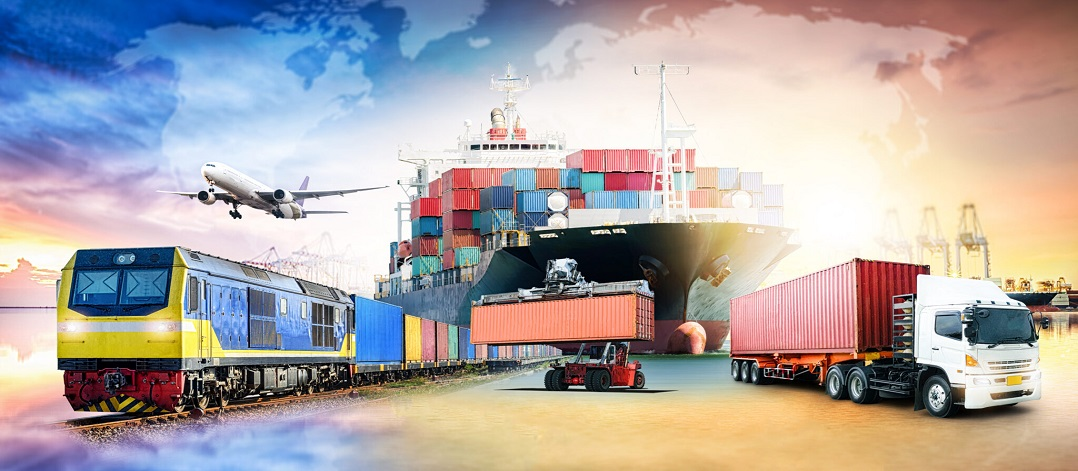
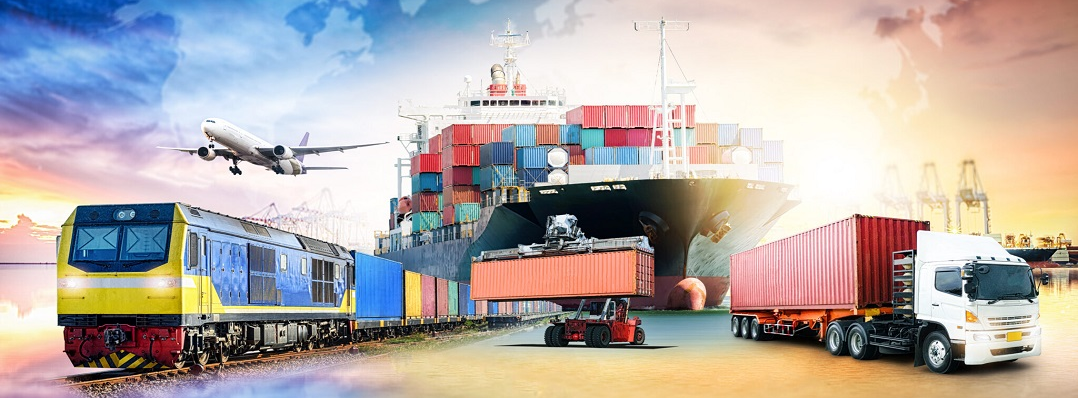
added more backend features

diff --git a/src/components/homePageComponents/InputCard.js b/src/components/homePageComponents/InputCard.js
@@ -1,23 +1,33 @@
-import React from "react";
-import Form from "react-bootstrap/Form";
-import InputGroup from "react-bootstrap/InputGroup";
+import React, { useState } from "react";
 import Card from "react-bootstrap/Card";
-import ListGroup from "react-bootstrap/ListGroup";
-import Calculator from "./Calculator";
-import { useState } from "react";
+import InputComponent from "./InputComponent";
 
 function InputCard(props) {
-  const [value, setValue] = useState(0);
-
   const icon = props.icon;
   const title = props.title;
-  const units = props.units;
 
-  const [unit, setUnit] = useState(units[0]);
+  
+  let [inputList, setInputList] = useState([1])
 
-  const getData = (ele) => {
-    setValue(ele.target.value);
-  };
+  const addInputComponent = () => {
+    let newInputList = [...inputList];
+    let count = newInputList.length
+    newInputList.push(count + 1);
+    setInputList(newInputList);
+  }
+
+  const removeInputComponent = () => {
+    let newInputList = [...inputList];
+    newInputList.pop()
+    setInputList(newInputList);
+  }
+
+  let addBtn 
+  let removeBtn
+  if(title  === "Private Vehicle") {
+    addBtn = <button className="btn btn-primary" onClick={(e) => {addInputComponent()}}><p>+ Add</p></button>
+    removeBtn = <button className="btn btn-danger" onClick={(e) => {removeInputComponent()}}><p>X</p></button>
+  }
 
   return (
     <div className="my-4 mx-4 justify-content-center">
@@ -26,27 +36,11 @@ function InputCard(props) {
           <h4>
             {icon} {title}
           </h4>
+         <p>{addBtn} {removeBtn}</p>
         </Card.Header>
-        <ListGroup variant="flush">
-          <ListGroup.Item>
-            <InputGroup className="mb-3 my-3">
-              <Form.Control
-                aria-label="Text input with dropdown button"
-                type="number"
-                onChange={getData}
-              />
-              <select
-                className="dropdown"
-                onChange={(e) => setUnit(e.target.value)}
-              >
-                {units.map((currElement) => {
-                  return <option key={currElement}>{currElement}</option>;
-                })}
-              </select>
-            </InputGroup>
-            <Calculator title={title} unit={unit} value={value} />
-          </ListGroup.Item>
-        </ListGroup>
+        {inputList.map((curr) => {
+          return <>{<InputComponent title = {title} units = {props.units}/>}</>
+        })}
       </Card>
     </div>
   );

diff --git a/src/components/homePageComponents/InputComponent.js b/src/components/homePageComponents/InputComponent.js
@@ -1,0 +1,76 @@
+import React, { useState } from "react";
+import Form from "react-bootstrap/Form";
+import InputGroup from "react-bootstrap/InputGroup";
+import ListGroup from "react-bootstrap/ListGroup";
+import Calculator from "./Calculator";
+
+function InputComponent(props) {
+    const [value, setValue] = useState(0);
+    const [milageValue, setMilageValue] = useState(0);
+
+  const title = props.title;
+  const units = props.units;
+  const fuels = ["Petrol","Diesel","CNG"]
+
+  const [unit, setUnit] = useState(units[0]);
+  const [fuel, setFuel] = useState(fuels[0])
+
+  const getData = (ele) => {
+    setValue(ele.target.value);
+  };
+  const getMilageData = (ele) => {
+    setMilageValue(ele.target.value);
+  };
+
+  let fuelDrop
+  let milage
+  if(title === "Private Vehicle") {
+    if(unit === "km/month")
+    milage = <Form.Control
+    aria-label="Text input with dropdown button"
+    type="number"
+    onChange={getMilageData}
+    placeholder="Enter Milage"
+  />
+    fuelDrop = <select
+    className="dropdown"
+    onChange={(e) => setFuel(e.target.value)}
+  >
+    {fuels.map((currElement) => {
+      return <option key={currElement}>{currElement}</option>;
+    })}
+  </select>
+  }
+
+  let plHolder = `Enter ${title} usage in ${unit}`
+
+  return (
+    <div>
+        <ListGroup variant="flush">
+          <ListGroup.Item>
+            <InputGroup className="mb-3 my-3">
+              {fuelDrop}
+              {milage}
+              <Form.Control
+                aria-label="Text input with dropdown button"
+                type="number"
+                placeholder={plHolder}
+                onChange={getData}
+              />
+              <select
+                className="dropdown"
+                onChange={(e) => setUnit(e.target.value)}
+              >
+                {units.map((currElement) => {
+                  return <option key={currElement}>{currElement}</option>;
+                })}
+              </select>
+            </InputGroup>
+            <Calculator title={title} unit={unit} value={value} fuel={fuel} milageValue={milageValue}/>
+          </ListGroup.Item>
+        </ListGroup>
+    </div>
+  )
+}
+
+export default InputComponent

diff --git a/src/components/homePageComponents/Carousels.js b/src/components/homePageComponents/Carousels.js
@@ -1,6 +1,6 @@
 import { Container } from 'react-bootstrap';
 import Carousel from 'react-bootstrap/Carousel'
-import Food from './images/Food.jpg'
+import Food1 from './images/Food1.jpeg'
 import Trans1 from './images/Transportation1.png'
 import Co2 from './images/carbon-dioxide.jpg'
 
@@ -11,7 +11,7 @@ function Carousels() {
             <Carousel.Item>
                 <img
                     className="d-block w-100"
-                    src={Food}
+                    src={Food1}
                     alt="First slide"
                 />
                 {/* <Carousel.Caption>
@@ -24,10 +24,10 @@ function Carousels() {
                 <img
                     className="d-block w-100"
                     src={Trans1}
-                    alt="Third slide"
+                    alt="Second slide"
                 />
                 {/* <Carousel.Caption>
-                    <h3>Third slide label</h3>
+                    <h3>Second slide label</h3>
                     <p>
                         Praesent commodo cursus magna, vel scelerisque nisl consectetur.
                     </p>

diff --git a/src/components/homePageComponents/Travel.js b/src/components/homePageComponents/Travel.js
@@ -1,0 +1,33 @@
+import React from "react";
+import TungstenRoundedIcon from "@mui/icons-material/TungstenRounded";
+import PropaneTankTwoToneIcon from "@mui/icons-material/PropaneTankTwoTone";
+import { Col, Container, Row } from "react-bootstrap";
+import InputCard from "./InputCard";
+
+function Travel() {
+    const unit = ["litre/month", "km/month"]
+
+    return (
+      <Container>
+        <Row className="justify-content-md-center my-5">
+          <Col className="my-1" xs={{ span: 12 }} md={{ span: 10 }}>
+            <InputCard
+              icon={<TungstenRoundedIcon />}
+              title="Private Vehicle"
+              units={unit}
+              value={100}
+            />
+          </Col>
+          <Col className="my-1" xs={{ span: 12 }} md={{ span: 10 }}>
+            <InputCard
+              icon={<PropaneTankTwoToneIcon />}
+              title="Public Transport"
+              units={unit}
+            />
+          </Col>
+        </Row>
+      </Container>
+    );
+}
+
+export default Travel

diff --git a/src/components/homePageComponents/Calculator.js b/src/components/homePageComponents/Calculator.js
@@ -12,6 +12,37 @@ function Calculator(props) {
   } else if (props.title === "Water Usage") {
     if (props.unit === "Rs./month") val = props.value;
     else val = props.value;
+  } else if(props.title === "Private Vehicle") {
+    if (props.unit === "litre/month") {
+      switch (props.fuel) {
+        case "Diesel":
+          val = 2.2458*props.value
+          break;
+        case "Petrol":
+          val = 1.9313*props.value
+          break;
+        case "CNG":
+          val = 0.0019*props.value
+          break;
+        default:
+          break;
+      }
+    }
+    else {
+      switch (props.fuel) {
+        case "Diesel":
+          val = 2.2458*props.value/props.milageValue
+          break;
+        case "Petrol":
+          val = 1.9313*props.value/props.milageValue
+          break;
+        case "CNG":
+          val = 0.0019*props.value/props.milageValue
+          break;
+        default:
+          break;
+      }
+    }
   }
 
   return (

diff --git a/src/components/homePageComponents/Home.js b/src/components/homePageComponents/Home.js
@@ -3,7 +3,6 @@ import TungstenRoundedIcon from "@mui/icons-material/TungstenRounded";
 import PropaneTankTwoToneIcon from "@mui/icons-material/PropaneTankTwoTone";
 import WaterIcon from "@mui/icons-material/Water";
 import { Col, Container, Row } from "react-bootstrap";
-import InputCard2 from "./InputCard2";
 import InputCard from "./InputCard";
 
 function Home() {
@@ -25,7 +24,7 @@ function Home() {
           />
         </Col>
         <Col className="my-1" xs={{ span: 12 }} md={{ span: 10 }}>
-          <InputCard2
+          <InputCard
             icon={<PropaneTankTwoToneIcon />}
             title="LPG"
             units={lpgUnit}

diff --git a/src/components/homePageComponents/TabBar.js b/src/components/homePageComponents/TabBar.js
@@ -9,6 +9,7 @@ import ShoppingCartIcon from '@mui/icons-material/ShoppingCart';
 import Co2Icon from '@mui/icons-material/Co2';
 import PanToolIcon from '@mui/icons-material/PanTool';
 import Home from './Home';
+import Travel from './Travel';
 
 function Tabbar() {
   return (
@@ -23,7 +24,7 @@ function Tabbar() {
         <Home />
       </Tab>
       <Tab eventKey="travel"  title = {<span><SubwayIcon/> Travel</span>}>
-        <Calculator/>
+        <Travel/>
       </Tab>
       <Tab eventKey="food" title={<span><FastfoodIcon/> Food</span>}>
         <Calculator/>
